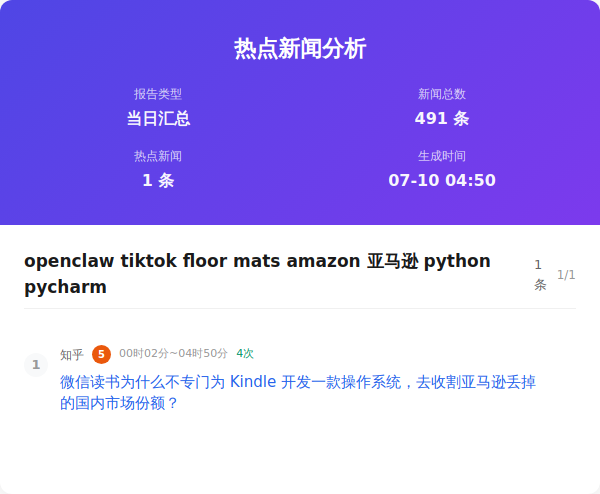
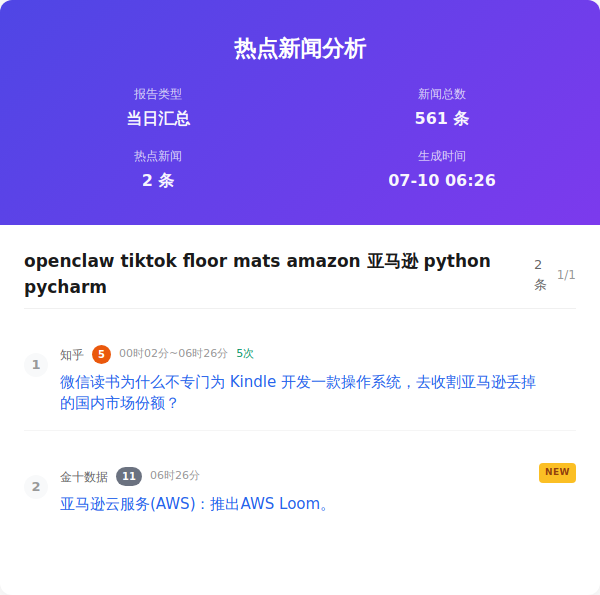
Auto update by GitHub Actions at Fri Jul 10 06:26:48 CST 2026

diff --git a/output/2026年07月10日/html/06时26分.html b/output/2026年07月10日/html/06时26分.html
@@ -353,15 +353,15 @@
                 <div class="header-info">
                     <div class="info-item">
                         <span class="info-label">报告类型</span>
-                        <span class="info-value">当日汇总</span>
+                        <span class="info-value">实时分析</span>
                     </div>
                     <div class="info-item">
                         <span class="info-label">新闻总数</span>
-                        <span class="info-value">561 条</span>
+                        <span class="info-value">254 条</span>
                     </div>
                     <div class="info-item">
                         <span class="info-label">热点新闻</span>
-                        <span class="info-value">2 条</span>
+                        <span class="info-value">1 条</span>
                     </div>
                     <div class="info-item">
                         <span class="info-label">生成时间</span>
@@ -375,7 +375,7 @@
                     <div class="word-header">
                         <div class="word-info">
                             <div class="word-name">openclaw tiktok floor mats amazon 亚马逊 python pycharm</div>
-                            <div class="word-count ">2 条</div>
+                            <div class="word-count ">1 条</div>
                         </div>
                         <div class="word-index">1/1</div>
                     </div>
@@ -383,19 +383,9 @@
                         <div class="news-number">1</div>
                         <div class="news-content">
                             <div class="news-header">
-                                <span class="source-name">知乎</span><span class="rank-num high">5</span><span class="time-info">00时02分~06时26分</span><span class="count-info">5次</span>
+                                <span class="source-name">知乎</span><span class="rank-num high">5</span><span class="time-info">06时26分</span>
                             </div>
                             <div class="news-title"><a href="https://www.zhihu.com/question/2010901701654254725" target="_blank" class="news-link">微信读书为什么不专门为 Kindle 开发一款操作系统，去收割亚马逊丢掉的国内市场份额？</a>
-                            </div>
-                        </div>
-                    </div>
-                    <div class="news-item new">
-                        <div class="news-number">2</div>
-                        <div class="news-content">
-                            <div class="news-header">
-                                <span class="source-name">金十数据</span><span class="rank-num ">11</span><span class="time-info">06时26分</span>
-                            </div>
-                            <div class="news-title"><a href="https://flash.jin10.com/detail/20260710052241881800" target="_blank" class="news-link">亚马逊云服务(AWS)：推出AWS Loom。</a>
                             </div>
                         </div>
                     </div>

diff --git a/output/2026年07月10日/html/当日汇总.html b/output/2026年07月10日/html/当日汇总.html
@@ -357,15 +357,15 @@
                     </div>
                     <div class="info-item">
                         <span class="info-label">新闻总数</span>
-                        <span class="info-value">491 条</span>
+                        <span class="info-value">561 条</span>
                     </div>
                     <div class="info-item">
                         <span class="info-label">热点新闻</span>
-                        <span class="info-value">1 条</span>
+                        <span class="info-value">2 条</span>
                     </div>
                     <div class="info-item">
                         <span class="info-label">生成时间</span>
-                        <span class="info-value">07-10 04:50</span>
+                        <span class="info-value">07-10 06:26</span>
                     </div>
                 </div>
             </div>
@@ -375,7 +375,7 @@
                     <div class="word-header">
                         <div class="word-info">
                             <div class="word-name">openclaw tiktok floor mats amazon 亚马逊 python pycharm</div>
-                            <div class="word-count ">1 条</div>
+                            <div class="word-count ">2 条</div>
                         </div>
                         <div class="word-index">1/1</div>
                     </div>
@@ -383,9 +383,19 @@
                         <div class="news-number">1</div>
                         <div class="news-content">
                             <div class="news-header">
-                                <span class="source-name">知乎</span><span class="rank-num high">5</span><span class="time-info">00时02分~04时50分</span><span class="count-info">4次</span>
+                                <span class="source-name">知乎</span><span class="rank-num high">5</span><span class="time-info">00时02分~06时26分</span><span class="count-info">5次</span>
                             </div>
                             <div class="news-title"><a href="https://www.zhihu.com/question/2010901701654254725" target="_blank" class="news-link">微信读书为什么不专门为 Kindle 开发一款操作系统，去收割亚马逊丢掉的国内市场份额？</a>
+                            </div>
+                        </div>
+                    </div>
+                    <div class="news-item new">
+                        <div class="news-number">2</div>
+                        <div class="news-content">
+                            <div class="news-header">
+                                <span class="source-name">金十数据</span><span class="rank-num ">11</span><span class="time-info">06时26分</span>
+                            </div>
+                            <div class="news-title"><a href="https://flash.jin10.com/detail/20260710052241881800" target="_blank" class="news-link">亚马逊云服务(AWS)：推出AWS Loom。</a>
                             </div>
                         </div>
                     </div>
